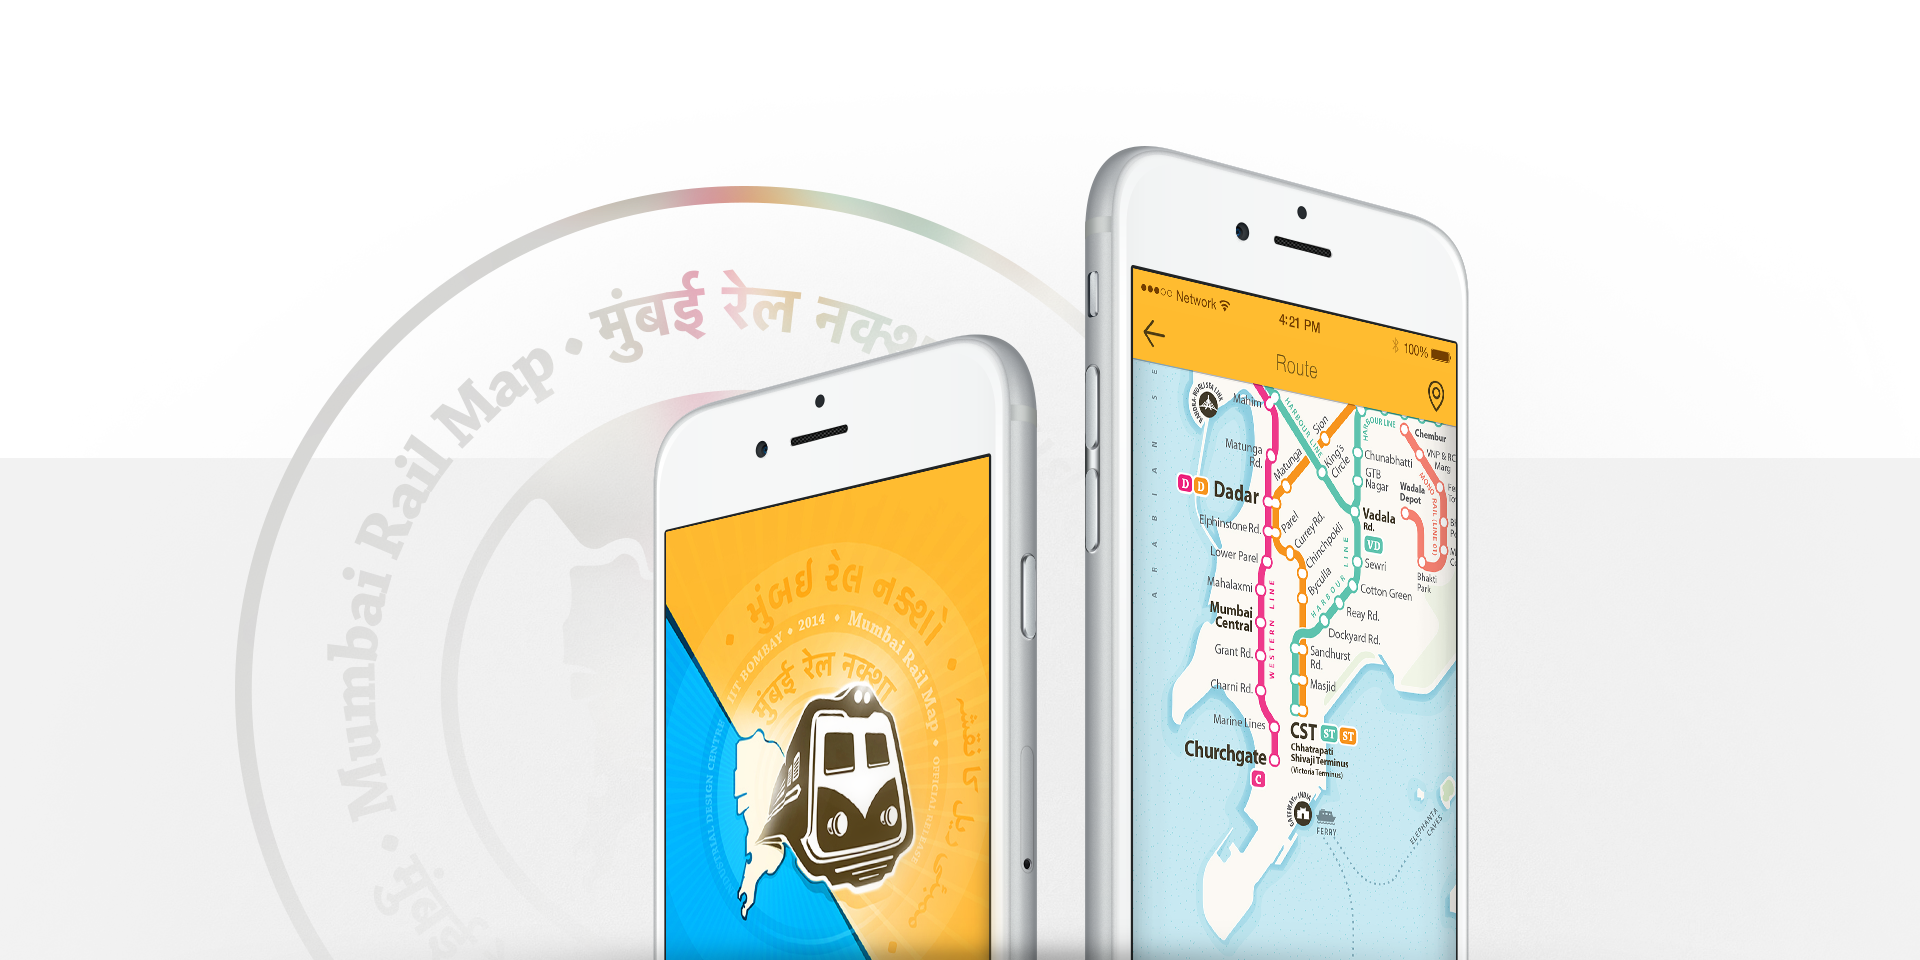
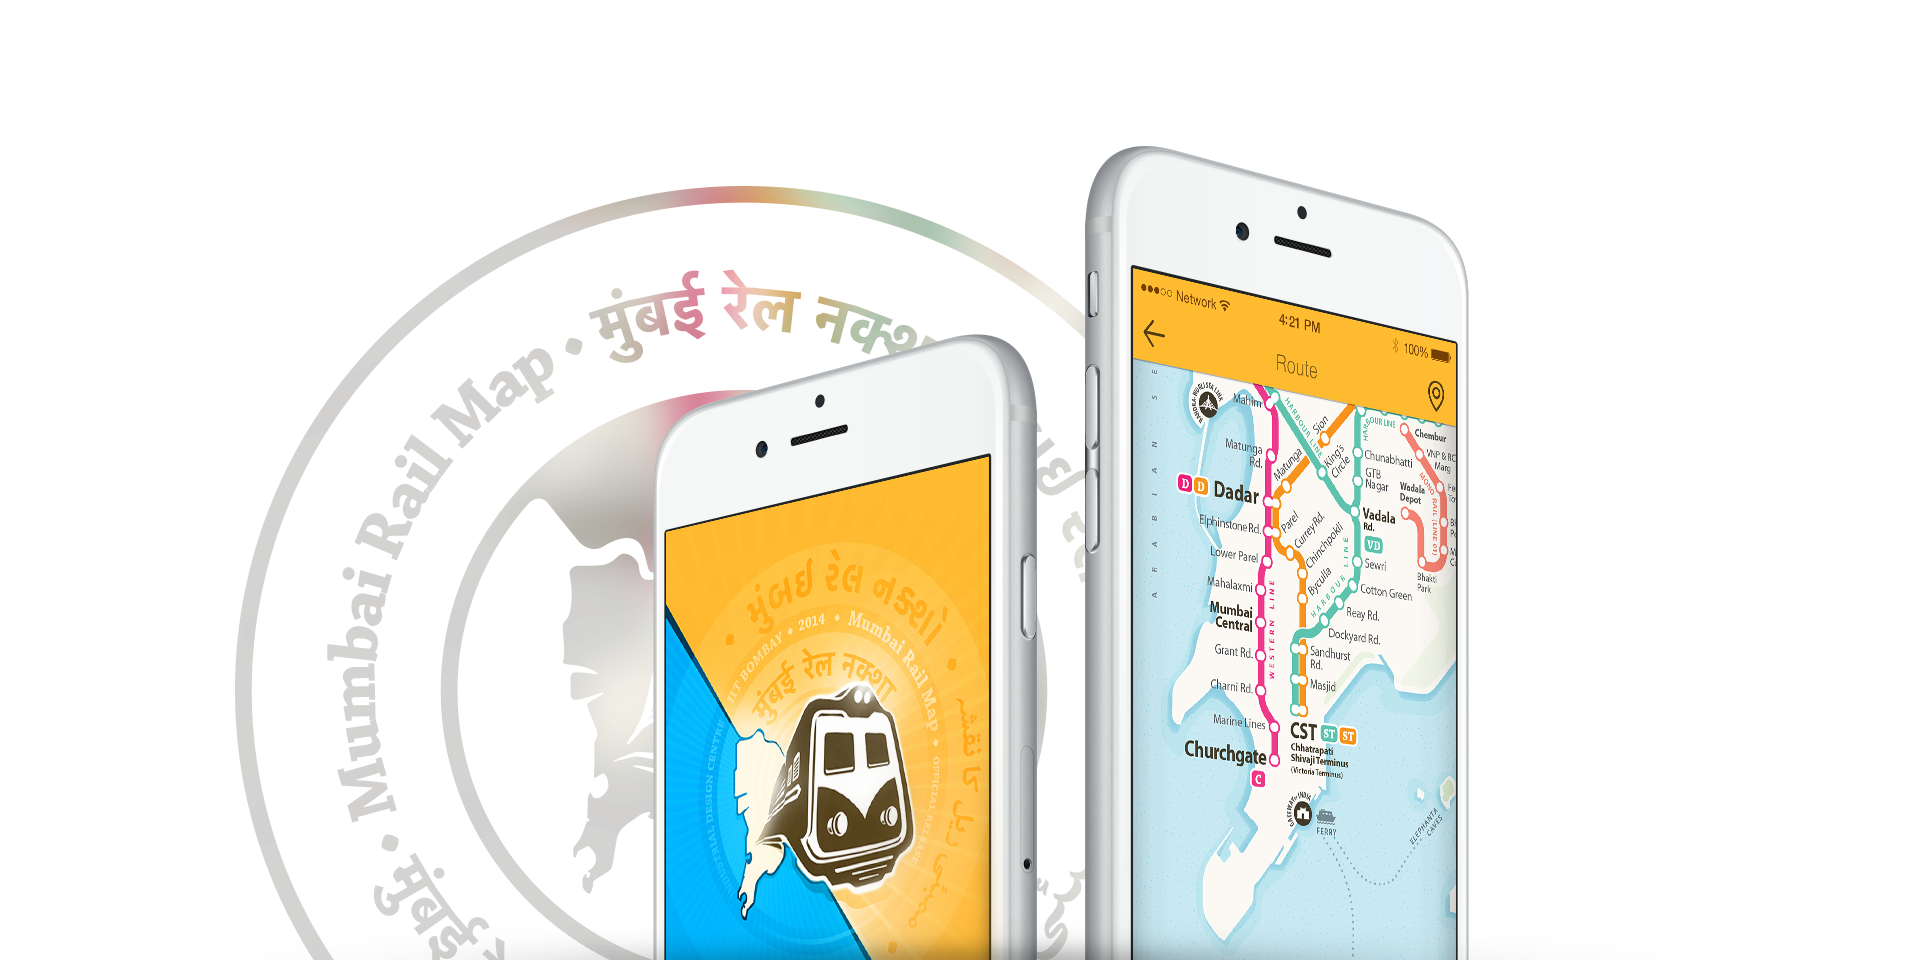
home fix4

diff --git a/index.html b/index.html
@@ -72,7 +72,7 @@
 <!-- **** T O P  N A V I G A T I O N ****************************************************************************** -->
 
   <!--Top Navigation MM bar starts-->
-    <div class="top-nav-wrapper" style="background-color:#f2f2f2;border-bottom:#e2e2e2 0px solid;">
+    <div class="top-nav-wrapper" style="background-color:#f2f2f2;border-bottom:#caefff 0px solid;">
       <div class="top-nav" style=" border-bottom:#ccc 0px solid;">
 
       <div class="mm-a">
@@ -256,16 +256,46 @@
     </div><!--section wrapper ends-->
 
 
+ 
+<!-- **** F E A T U R E D - P O S T  #1 ****************************************************************************** -->
+
+  <!--section wrapper starts-->
+    <div class="section-wrapper" style="background-color:#0b0a09;"><!--section background-->
+      <div class="j-wrapper" style="padding:120px 0 0px 0;">
+
+      <!--TITLE starts -->
+          <div class="j-post960">
+            <a href="p_mindon.html" target="_self">
+              <h1 class="f2 beige3 xxxlarge"><b>‘The New Smart’</b></h1>
+              <h1 class=" beige ">Visual Identity Design & Brand Language for the Indian Edutech firm ‘Mind On’ based on Social and Emotional Learning </h1>
+              <h3 class="medium italic light beige3 ">View the Project</h3>
+            </a>
+          </div><!--TITLE ends -->
+
+      <!--HOME POST starts -->
+          <div class="featured-post" style="padding:40px 0 0px 0">
+            <ul>
+                <li>
+                    <a href="p_mindon.html" target="_blank"><img src="images/home/p_mindon.jpg" alt="MindOn"></a>             
+                </li>
+            </ul>
+          </div><!--HOME POST ends -->
+
+        <div class="clearcolumn"></div>
+      </div><!--j-wrapper ends --> 
+    </div><!--section wrapper ends-->
+
+   
+
 <!-- **** F E A T U R E D - P O S T  #01 ****************************************************************************** -->
 
   <!--section wrapper starts-->
-    <div class="section-wrapper" style="background-color:#F4F1E8;"><!--section background-->
+    <div class="section-wrapper-wc" style="background-color:#F4F1E8;"><!--section background-->
       <div class="j-wrapper" style="padding:120px 0 120px 0;">
 
       <!--TITLE starts -->
           <div class="j-post960">
             <a href="p_wc.html" target="_self">
-              <h3 class="medium italic ">Identity Design . Brand Language</h3>
               <h1 class="f2 brown xxxlarge"> <b>‘Taste the Wow’</b></h1>
             </a>
           </div><!--TITLE ends -->
@@ -284,8 +314,8 @@
       <!--TITLE starts -->
           <div class="j-post960">
             <a href="p_wc.html" target="_self">
-              <p class="xlarge beige">Visual Brand Language & Product Identity Design for Organic Cow Milk brand <b>‘Wholly Cow’</b> based in northern India</p>
-              <h3 class="medium italic brown2 ">View the Project</h3>
+              <h1 class=" beige">Visual Brand Language & Product Identity Design for Organic Cow Milk brand <b>‘Wholly Cow’</b> based in northern India</h1>
+              <h3 class="medium italic lighter brown ">View the Project</h3>
             </a>
           </div><!--TITLE ends -->
 
@@ -294,49 +324,18 @@
     </div><!--section wrapper ends-->
 
 
-    
 
-<!-- **** F E A T U R E D - P O S T  #1 ****************************************************************************** -->
-
-  <!--section wrapper starts-->
-    <div class="section-wrapper" style="background-color:#ffd6a1;"><!--section background-->
-      <div class="j-wrapper" style="padding:120px 0 0px 0;">
-
-      <!--TITLE starts -->
-          <div class="j-post960">
-            <a href="p_mindon.html" target="_self">
-              <h1 class="f2 brown xxxlarge"><b>‘The New Smart’</b></h1>
-              <p class="light brown medium">Visual Identity Design & Brand Language for The New Smart Edutech firm <b>‘Mind On’</p>
-              <h3 class="medium italic brown ">View the Project</h3>
-            </a>
-          </div><!--TITLE ends -->
-
-      <!--HOME POST starts -->
-          <div class="featured-post" style="padding:40px 0 0px 0">
-            <ul>
-                <li>
-                    <a href="p_mindon.html" target="_blank"><img src="images/home/p_mindon.jpg" alt="MindOn"></a>             
-                </li>
-            </ul>
-          </div><!--HOME POST ends -->
-
-        <div class="clearcolumn"></div>
-      </div><!--j-wrapper ends --> 
-    </div><!--section wrapper ends-->
-
-
-    
 <!-- **** F E A T U R E D - P O S T  #2 ****************************************************************************** -->
 
   <!--section wrapper starts-->
-    <div class="section-wrapper" style="background-color:#f2f2f2;"><!--section background-->
+    <div class="section-wrapper" style="background-color:#ffd063;"><!--section background-->
       <div class="j-wrapper" style="padding:120px 0 0px 0;">
 
       <!--TITLE starts -->
           <div class="j-post960">
             <a href="p_mrmapp.html" target="_self">
-              <h3 class="medium italic blue">Information Design</h3>
-              <h1 class="f2 xxxlarge" style="color: #010c17;">Design of the travel application for the Mumbai sub-urban rail network <b>MrmApp</b></h1>
+              <h1 class="f2 xxxlarge brown">Design of the complete travel application for the Mumbai sub-urban rail network ‘<b>Mrm</b>App’</h1>
+              <h3 class="medium brown italic ">View the Project</h3>
             </a>
           </div><!--TITLE ends -->
 
@@ -344,7 +343,7 @@
           <div class="featured-post" style="padding:40px 0 0px 0">
             <ul>
                 <li>
-                    <a href="p_mrmapp.html" target="_blank"><img src="images/home/p_mrmapp2.jpg" alt="mrmapp"></a>             
+                    <a href="p_mrmapp.html" target="_blank"><img src="images/home/p_mrmapp2.png" alt="mrmapp"></a>             
                 </li>
 
             </ul>
@@ -365,9 +364,9 @@
       <!--TITLE starts -->
           <div class="j-post960">
             <a href="p_bmb.html" target="_self">
-              <h1 class="f2 gray xxxlarge"><b>‘Bhaag Milkha Bhaag’</b></h1>
-              <p class="lightest white">Publicity Design for the Bollywood Feature film <b>‘Bhaag Milkha Bhaag’</b> 2013</p>
-              <h3 class="medium blue italic ">View the Project</h3>
+              <h1 class="light gray medium">Publicity Design for the Bollywood Feature film</h1>
+              <h1 class="f2 gray xxxlarge">‘Bhaag Milkha Bhaag’</h1>
+              <h3 class="medium lightest gray italic ">View the Project</h3>
             </a>
           </div><!--TITLE ends -->
 
@@ -375,7 +374,7 @@
           <div class="featured-post" style="padding:40px 0 0px 0">
             <ul>
                 <li>
-                    <a href="p_bmb.html" target="_blank"><img src="images/projects/bmb_top.jpg" alt="BMB"></a>             
+                    <a href="p_bmb.html" target="_blank"><img src="images/home/p_bmb.jpg" alt="BMB"></a>             
                 </li>
             </ul>
           </div><!--HOME POST ends -->
@@ -395,10 +394,10 @@
       <!--TITLE starts -->
           <div class="j-post960">
             <a href="p_eves24.html" target="_self">
-              <h1 class="f2 brown xlarge">New Jewellery</h1>
+              <h1 class="f2 brown xxlarge">New Jewellery</h1>
               <h1 class="f2 brown xxxxxlarge">Every Affair</h1>
-              <p class="light brown">Visual Brand Language for the brand new Jewell library based in Mumbai, <b>‘Eves 24’</b></p>
-              <h3 class="medium italic brown ">View the Project</h3>
+              <h1 class="brown2 medium">Visual Brand Language for the brand new Jewell library, <b>‘Eves 24’</b></h1>
+              <h3 class="medium italic brown3 ">View the Project</h3>
             </a>
           </div><!--TITLE ends -->
 
@@ -406,7 +405,7 @@
           <div class="featured-post" style="padding:40px 0 0px 0">
             <ul>
                 <li>
-                    <a href="p_bmb.html" target="_blank"><img src="images/projects/eves24_top.jpg" alt="BMB"></a>             
+                    <a href="p_bmb.html" target="_blank"><img src="images/home/p_eves24.jpg" alt="BMB"></a>             
                 </li>
             </ul>
           </div><!--HOME POST ends -->

diff --git a/css/jaiki01.css b/css/jaiki01.css
@@ -202,6 +202,7 @@ hr{ color:#ccc; opacity:.5; margin:15px 0px 10px 0px; border-style: solid; borde
 /* wrapper */
 	.section-wrapper{background-color: #fafafa; }
 	.section-wrapper-s1{background-color: #f2f2f2; background:url(../images/s1.png) center no-repeat; width:100%; position: relative; overflow: hidden;}
+	.section-wrapper-wc{background-color: #f2f2f2; background:url(../images/home/p_wc_bg3.png) 100% 100% no-repeat; width:100%; position: relative; overflow: hidden;}
 
 	.page-wrapper{background-color: #fafafa; }
 
@@ -680,8 +681,8 @@ hr{ color:#ccc; opacity:.5; margin:15px 0px 10px 0px; border-style: solid; borde
 		  .xlarge 		{font-size: 1.4em;}
 		  .xxlarge 		{font-size: 1.6em;}
 		  .xxxlarge 	{font-size: 2.0em;}
-		  .xxxxlarge 	{font-size: 3.0em;}
-		  .xxxxxlarge 	{font-size: 4.0em;}
+		  .xxxxlarge 	{font-size: 2.0em;}
+		  .xxxxxlarge 	{font-size: 3.0em;}
 
 		  .pull			{font-size: 2.0em;}
 		}
@@ -696,8 +697,8 @@ hr{ color:#ccc; opacity:.5; margin:15px 0px 10px 0px; border-style: solid; borde
 		  .xlarge 		{font-size: 1.2em;}
 		  .xxlarge 		{font-size: 1.4em;}
 		  .xxxlarge 	{font-size: 1.6em;}
-		  .xxxxlarge 	{font-size: 2.2em;}
-		  .xxxxxlarge 	{font-size: 3.0em;}
+		  .xxxxlarge 	{font-size: 1.6em;}
+		  .xxxxxlarge 	{font-size: 2.6em;}
 
 		  .pull			{font-size: 1.8em;}
 		}

diff --git a/projects.html b/projects.html
@@ -101,6 +101,7 @@
       <div class="clearcolumn"></div>
     </div><!--j-wrapper ends --> 
   </div><!--section wrapper ends-->
+  
 <!-- **** J - A L B U M ****************************************************************************** -->
 
     <div class="section-wrapper" style="background-color:#dcf6ff;"><!--section background-->

diff --git a/p_bmb.html b/p_bmb.html
@@ -108,7 +108,7 @@
         <div class="j-title-top">
             <span> 
                 <h1 class="red">Bhaag Milkha Bhaag</h1>
-                Client: Marching Ants Advertising Mumbai, India
+                For: Marching Ants Advertising Mumbai, India
             </span>
         </div>
           
